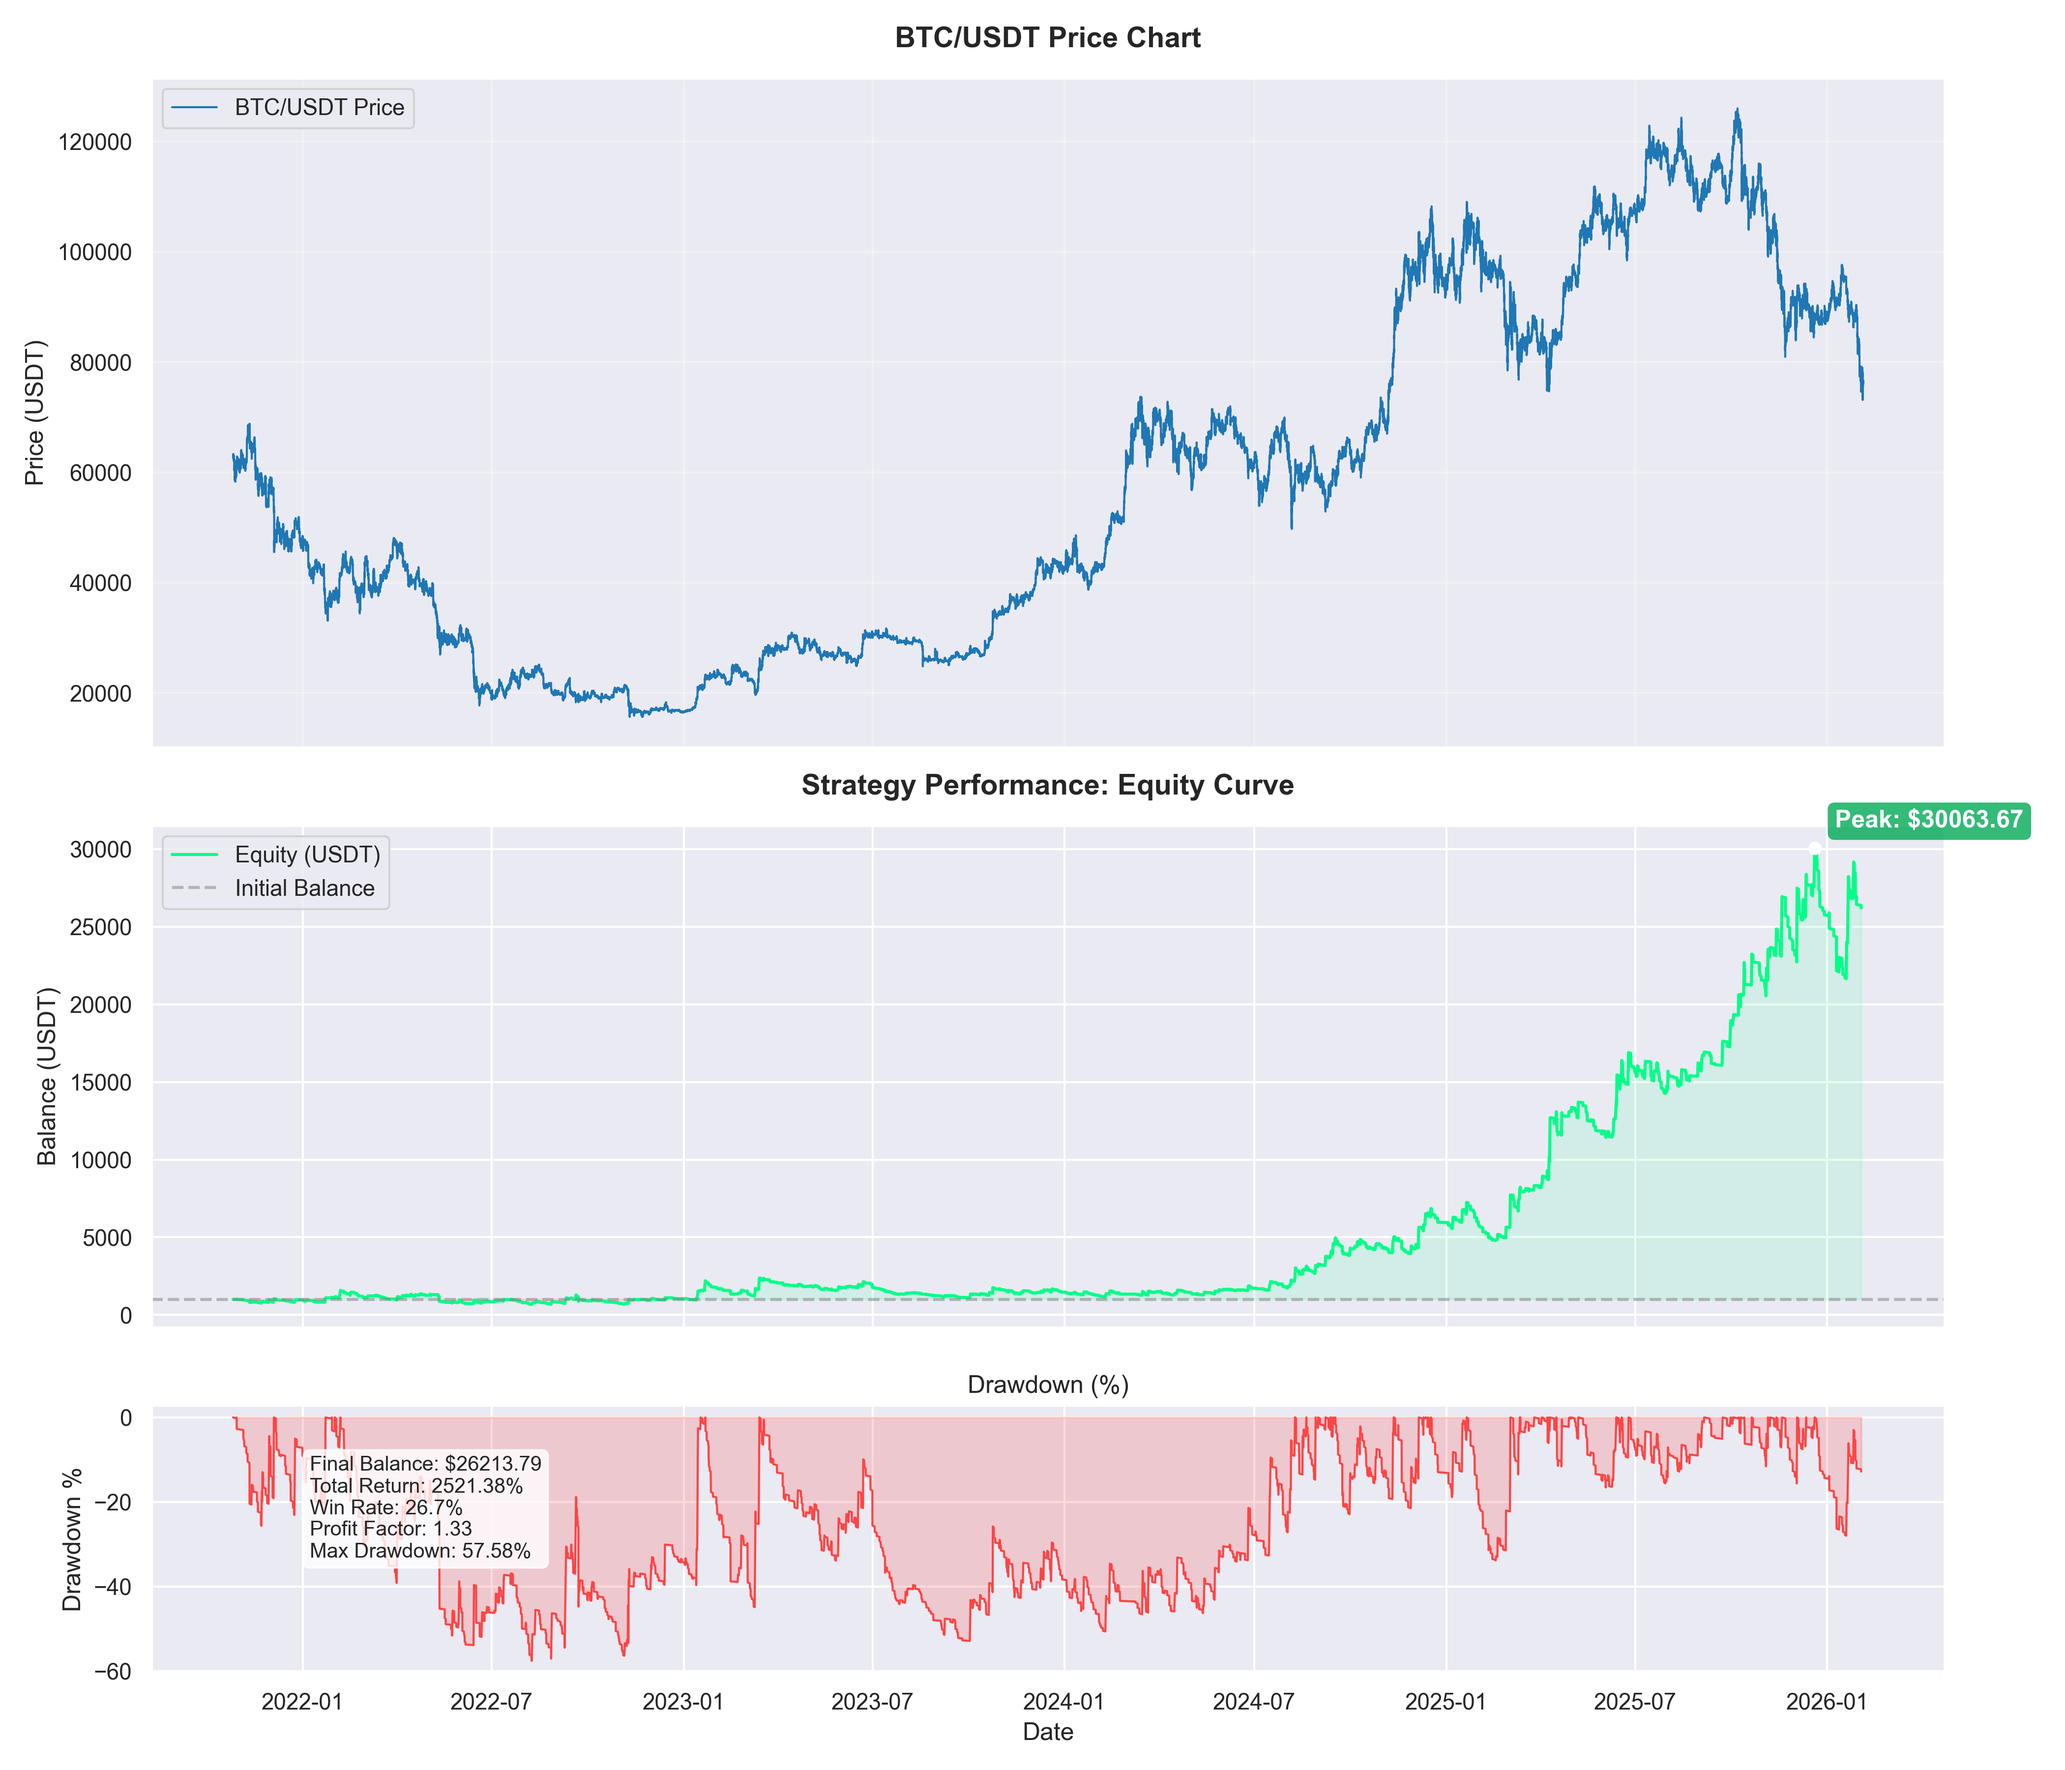
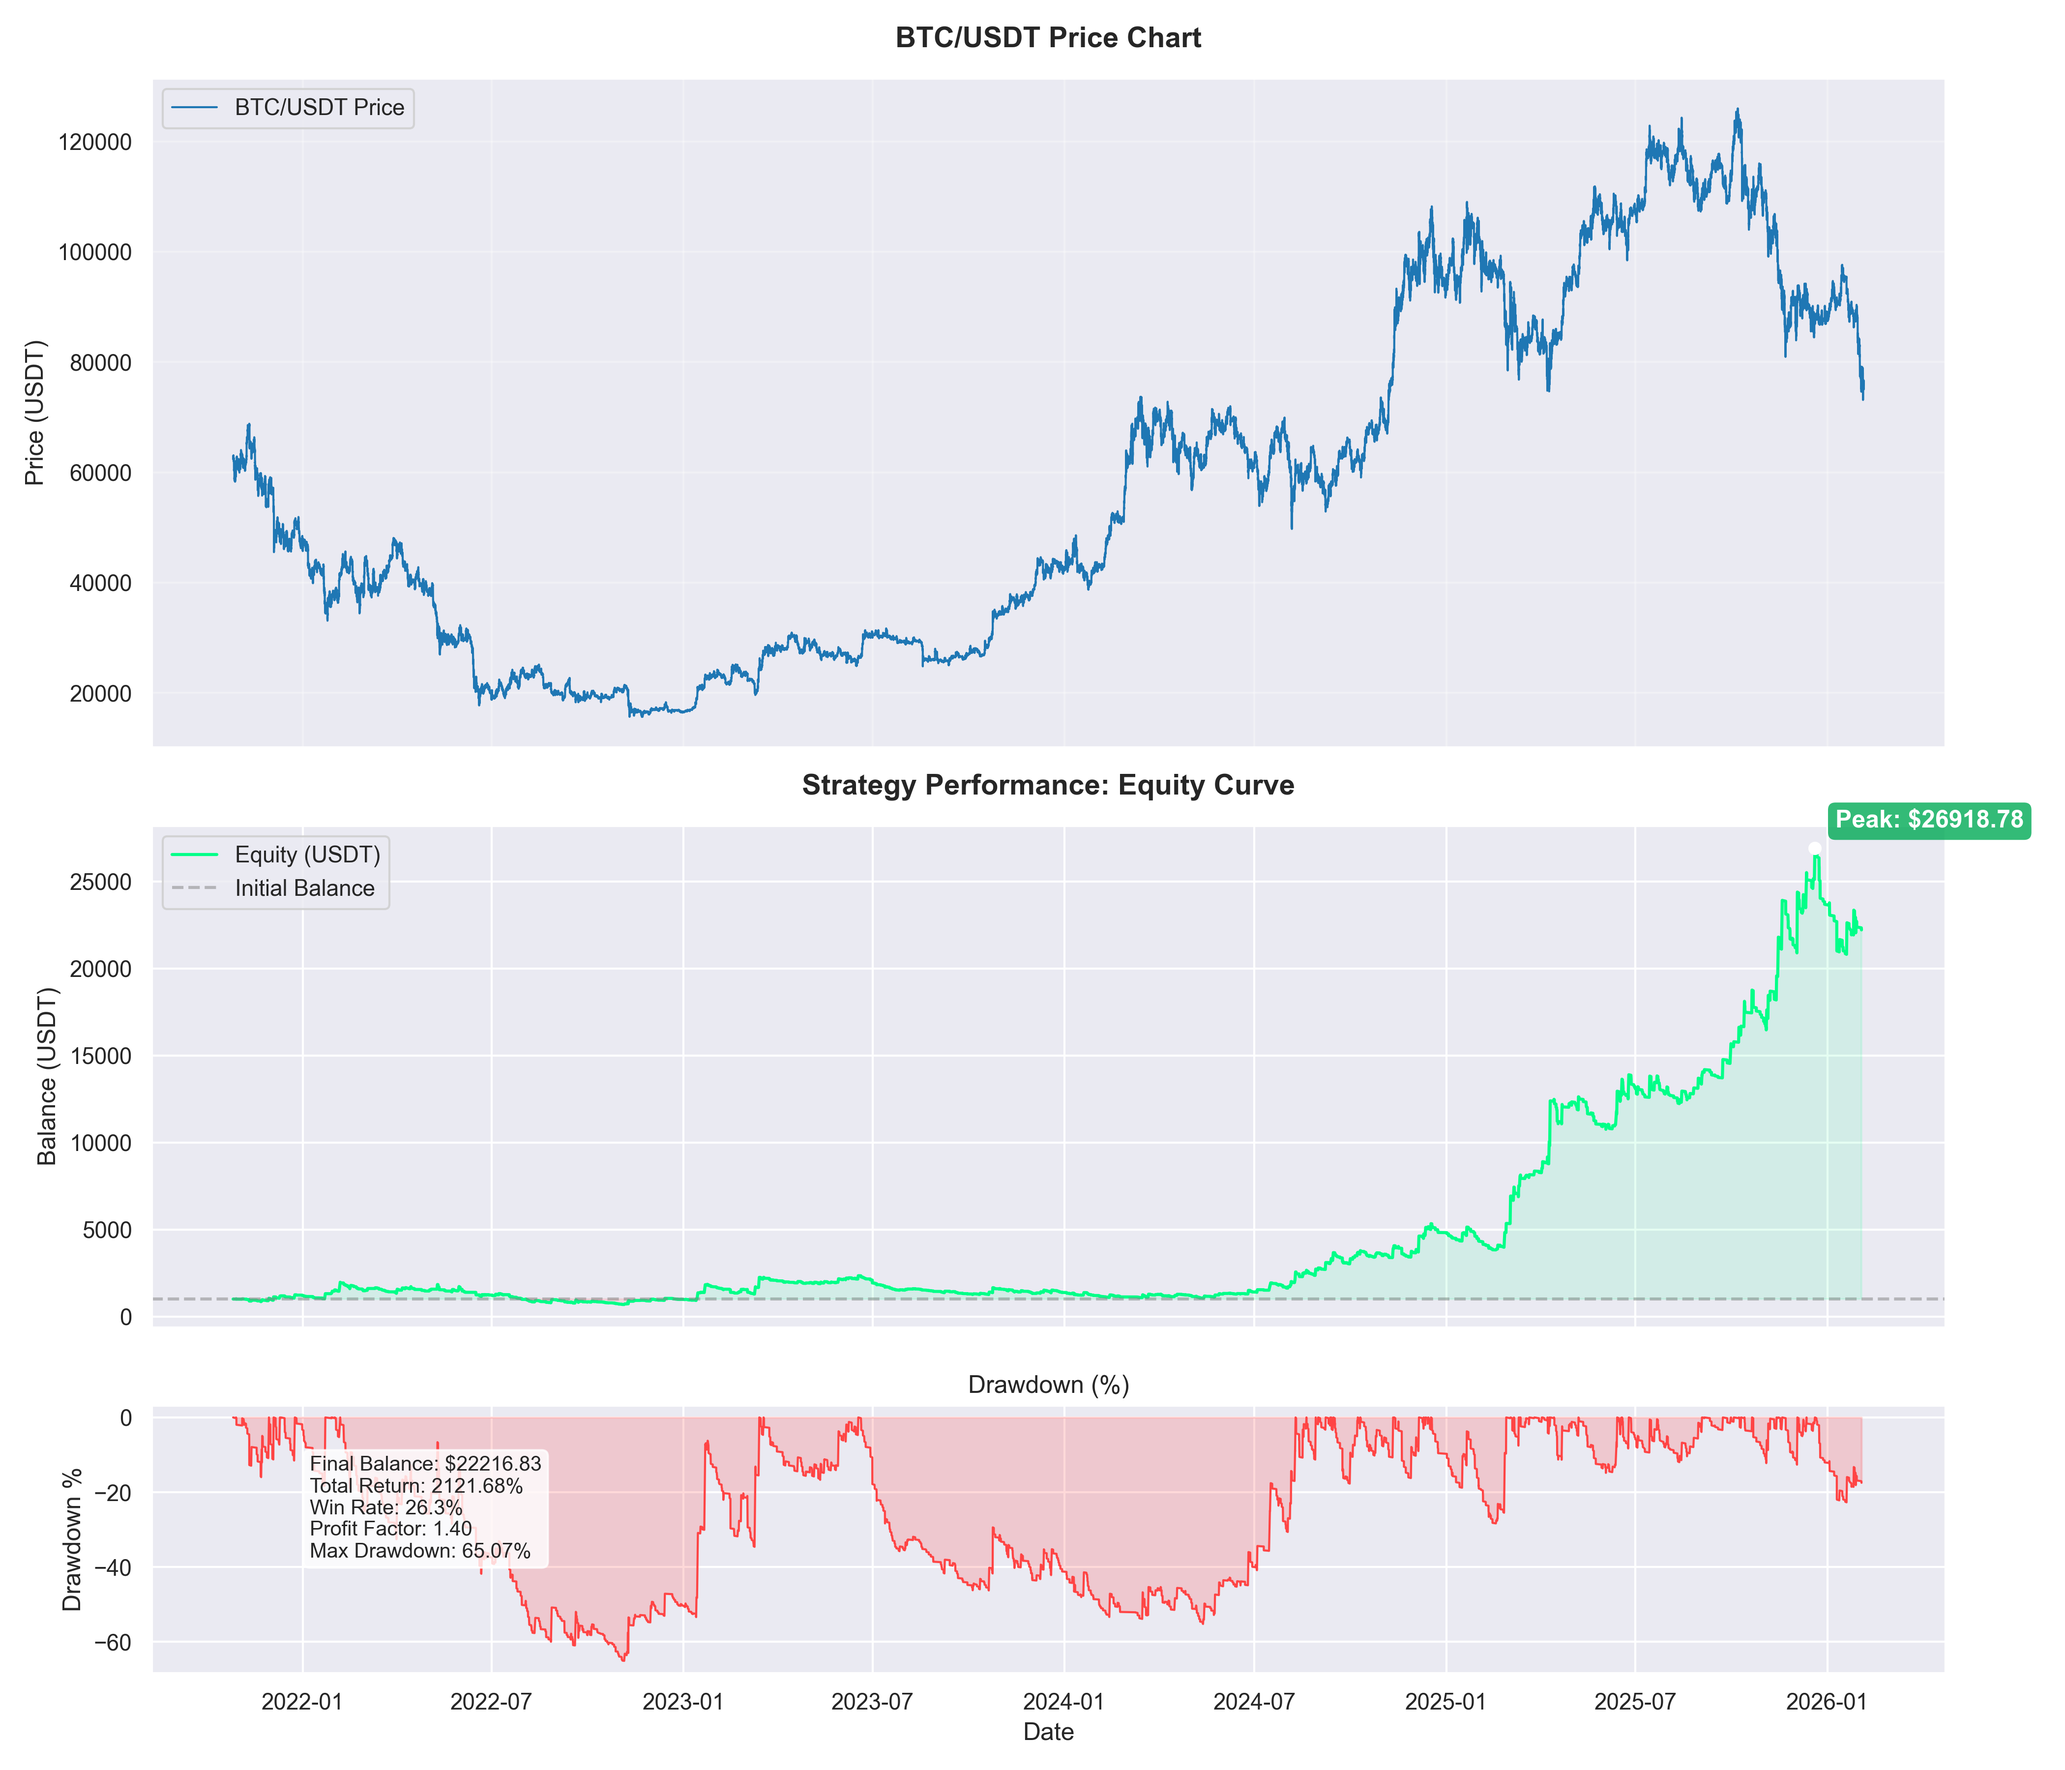
feat: adjust leverage configuration and add performance summary image.

diff --git a/config.py b/config.py
@@ -29,7 +29,7 @@ SUPERTREND_FACTOR = 1.45       # Multiplier for Band width
 EMA_LENGTH = 102              # EMA Baseline (Price > EMA = Bullish)
 
 # Risk Management
-LEVERAGE = 25                  # Leverage multiplier
+LEVERAGE = 20                  # Leverage multiplier
 POSITION_SIZE_PERCENT = 0.2     # 100% of Equity per Trade
 
 # Safety
